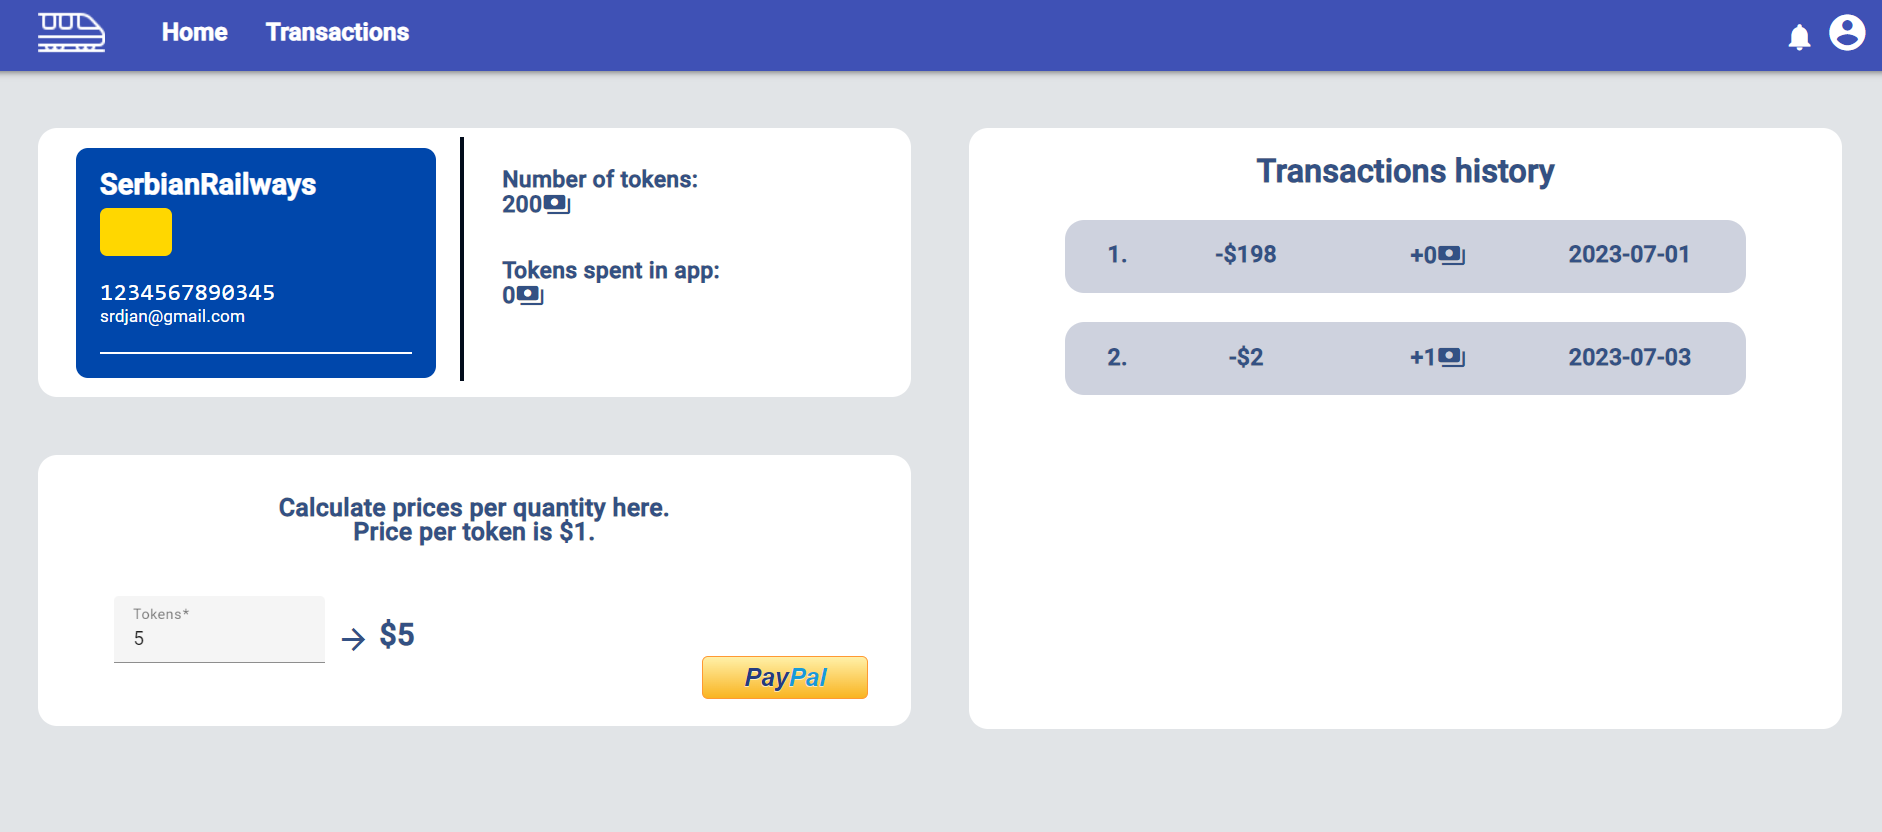
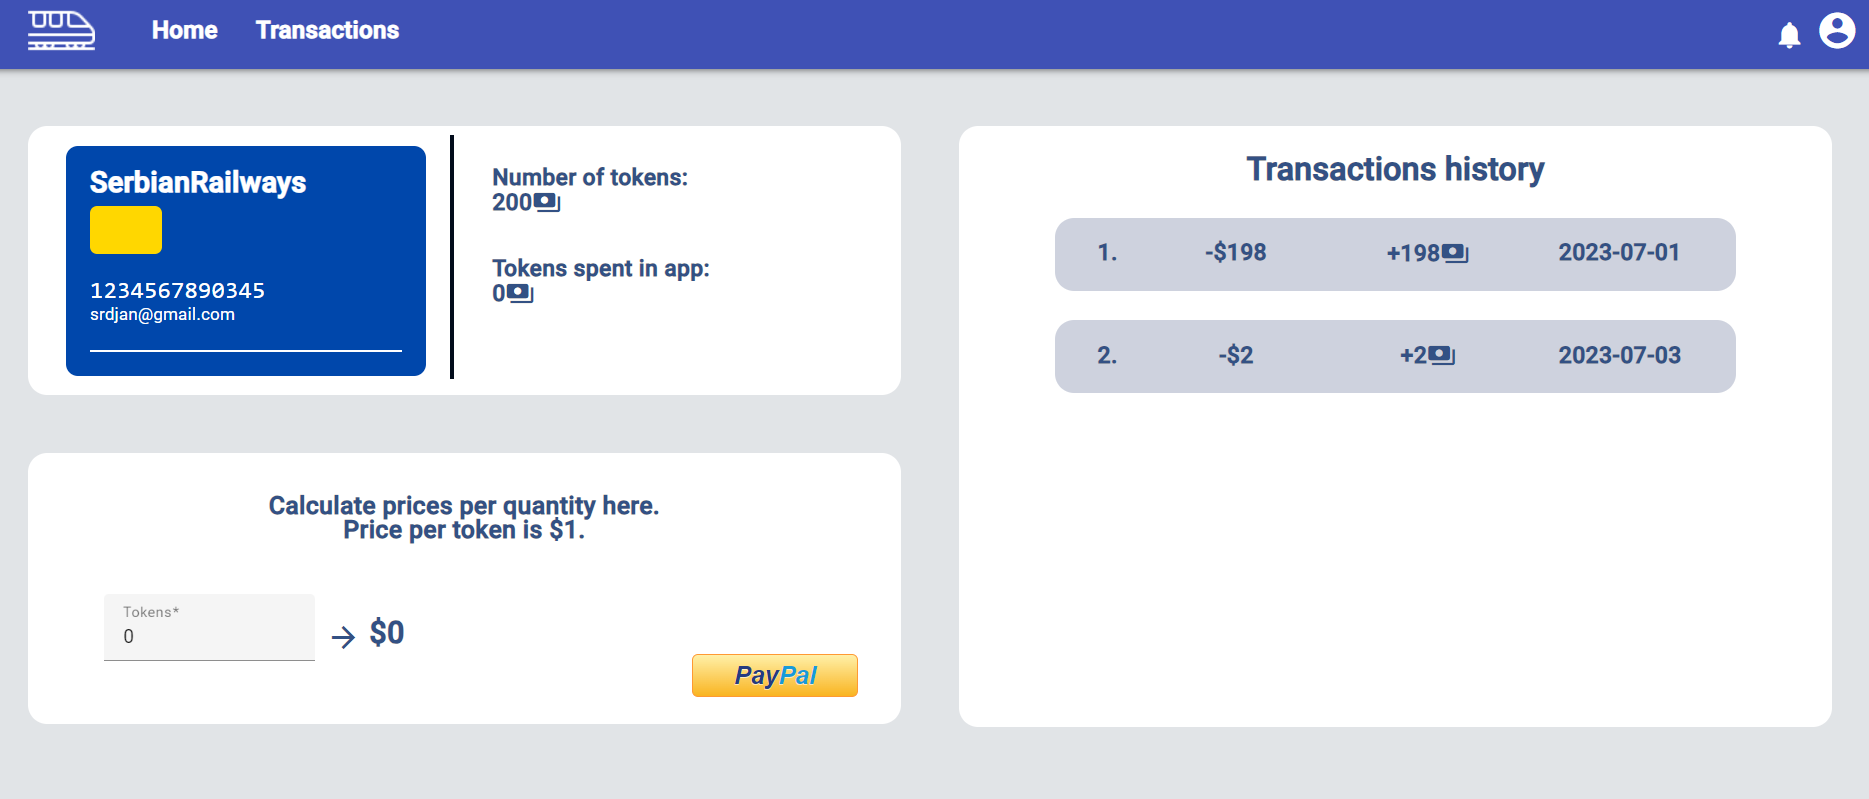
ReadMe update

diff --git a/railway-app-frontend/src/modules/regular-user/components/transaction-row/transaction-row.component.html b/railway-app-frontend/src/modules/regular-user/components/transaction-row/transaction-row.component.html
@@ -2,7 +2,7 @@
     <table width="100%">
         <td width="10%">{{index + 1}}.</td>
         <td width="30%">-${{transaction.moneySpent}}</td>
-        <td width="30%">+{{index}}<mat-icon>payments</mat-icon></td>
+        <td width="30%">+{{transaction.tokensNum}}<mat-icon>payments</mat-icon></td>
         <td width="30%">{{transaction.timeStamp.split('T')[0]}}</td>
     </table>
 </div>

diff --git a/README.md b/README.md
@@ -48,6 +48,12 @@
 - Run ng serve in terminal to start application
 <br>
 
+#### <span style="vertical-align: middle">:floppy_disk:</span> *How to run python script:*
+
+- pip install python-kafka
+- click on run button in IDE
+<br>
+
 ## 🤝 Useful to know:
 - Railway application is using Leaflet maps and many other APIs, stable internet connection is needed
 - You will need to reconfigure API keys for login with Google/Microsoft and paying via PayPal
@@ -88,6 +94,8 @@ since it's running in testing environment
         - regular (components used only by regular users)
         - root (starting point for frontend)
         - shared (components used by multiple user roles, interceptors etc.)
+- Python Script
+    - Simulates train delayes and cancellations in real time through Kafka  
 * Note* All user based elements are consisting of pages, components and services
 
 
